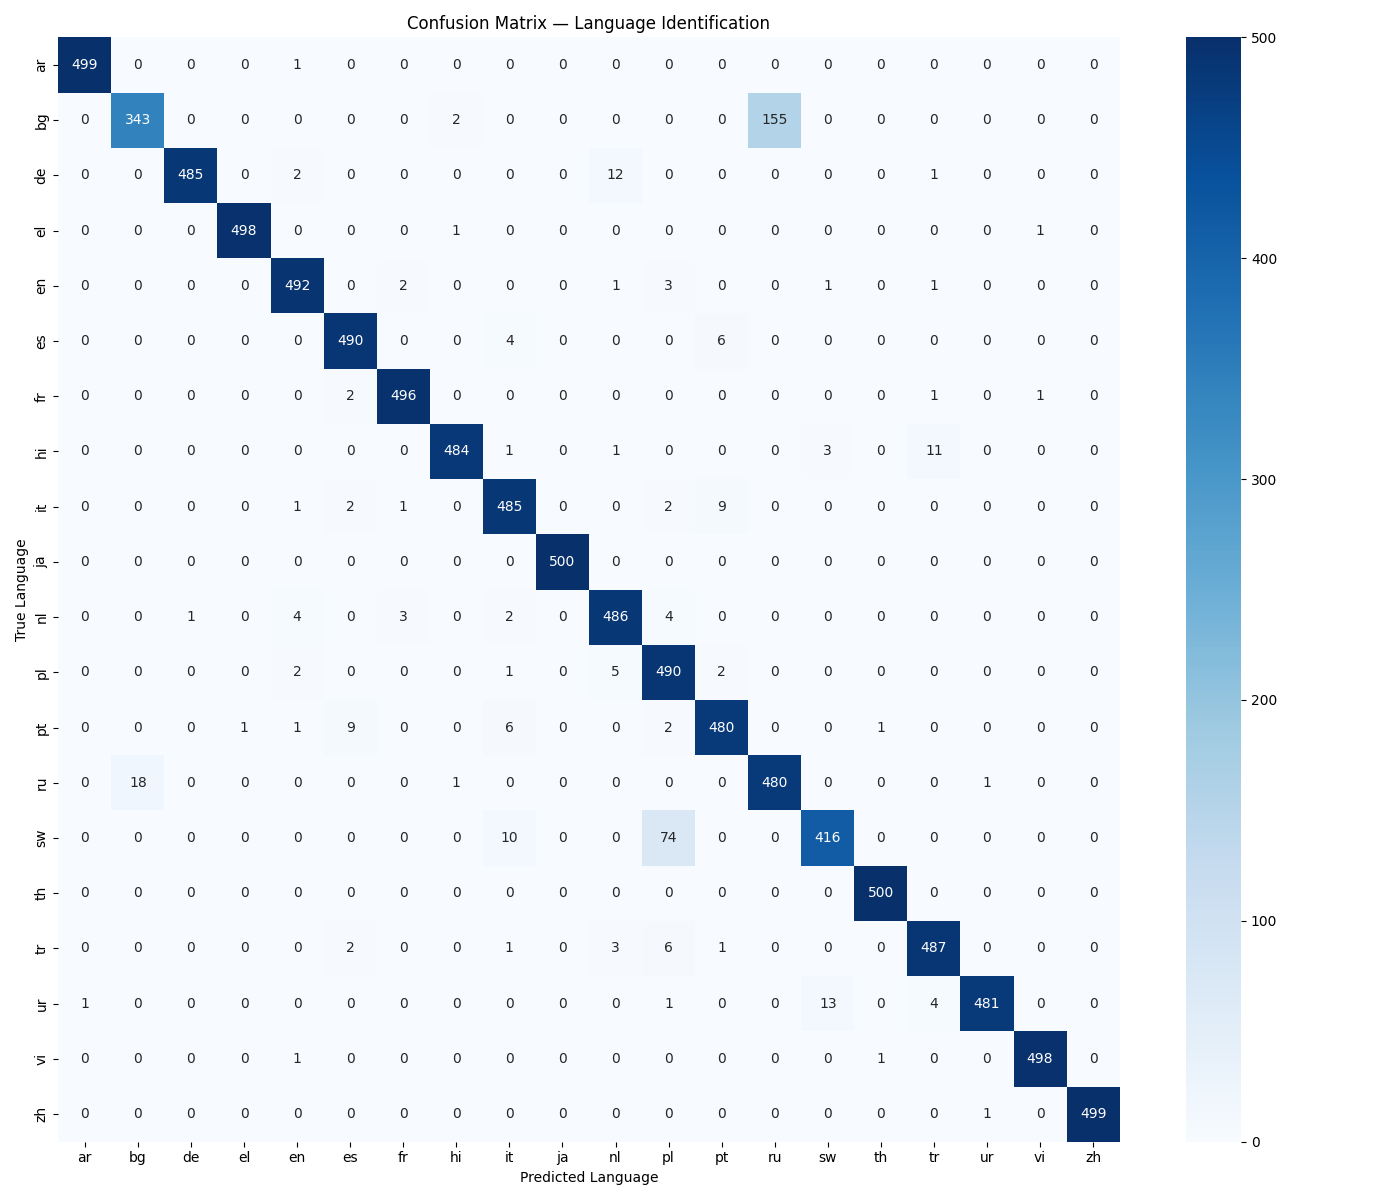
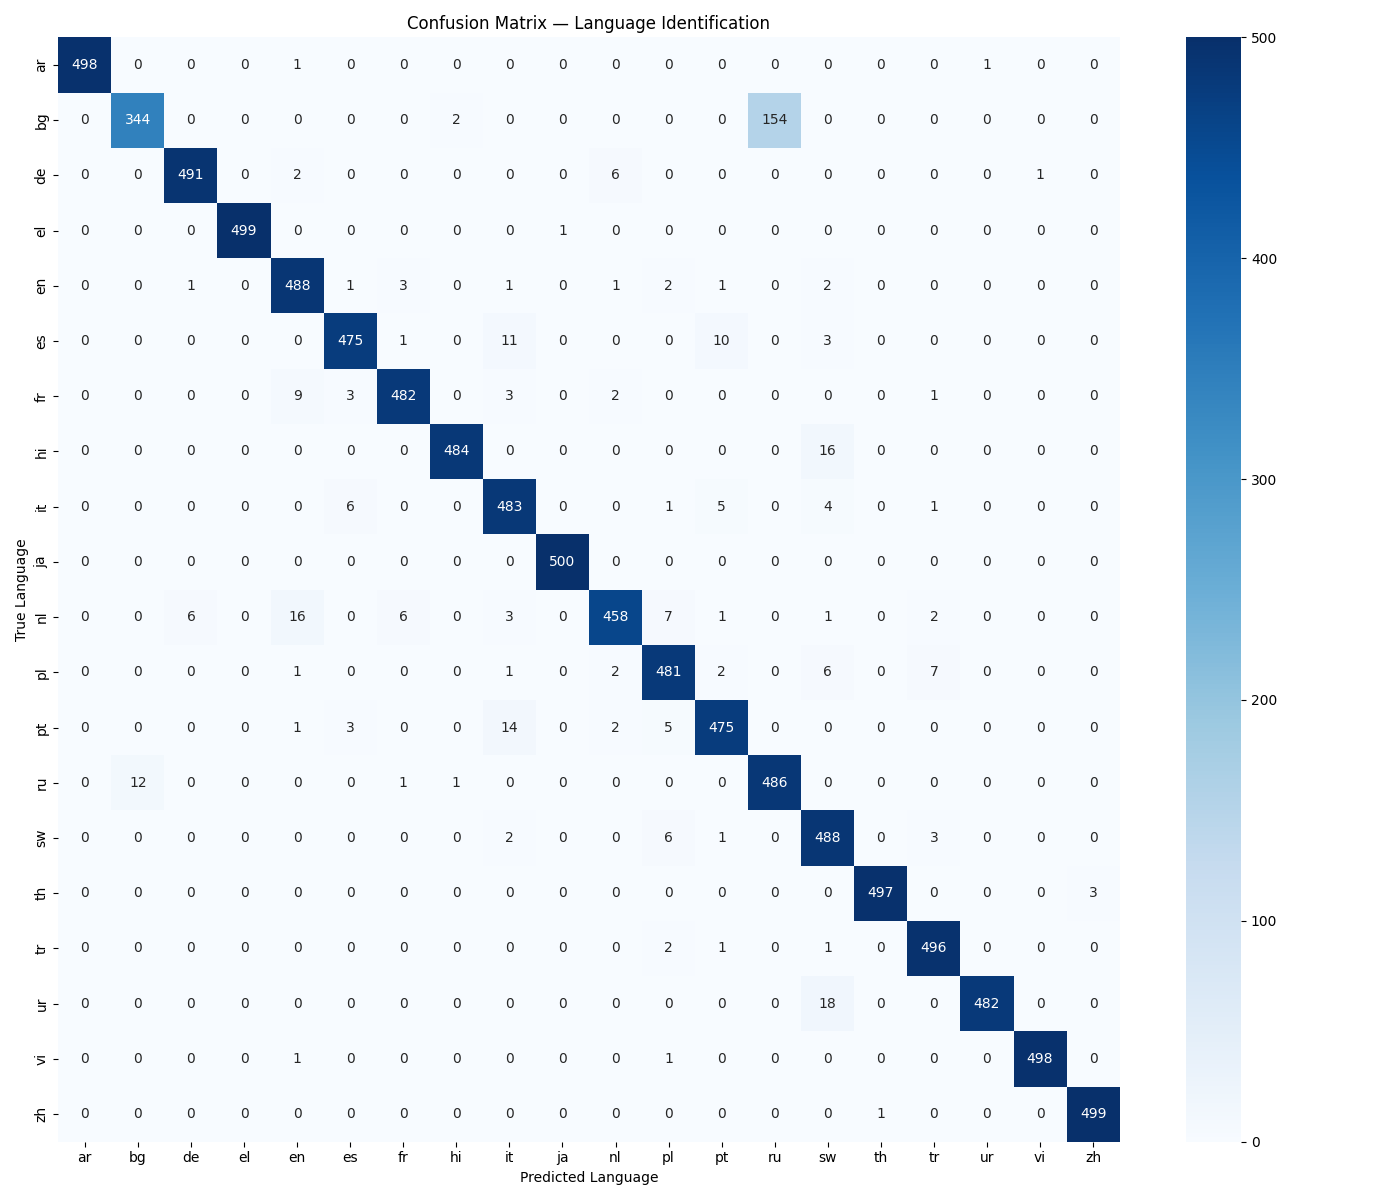
Final model trained , acc of 96%

Changed region(s): [[0.5529, 0.6783, 0.6143, 0.74], [0.4607, 0.6475, 0.5221, 0.74]]

diff --git a/src/predict.py b/src/predict.py
@@ -1,0 +1,75 @@
+import torch
+import torch.nn.functional as F
+from src.data_loader import load_config
+from src.preprocess import encode_text, load_vocab
+from src.model import LangIDModel
+
+def load_model(cfg, device):
+    # load saved vocab
+    char2idx, lang2idx, idx2lang = load_vocab(cfg['paths']['vocab_save'])
+    
+    # rebuild model architecture
+    model = LangIDModel(
+        vocab_size    = len(char2idx),
+        embedding_dim = cfg['model']['embedding_dim'],
+        gru_units     = cfg['model']['gru_units'],
+        num_classes   = cfg['model']['num_classes'],
+        dropout       = cfg['model']['dropout'],
+        num_layers    = cfg['model']['num_layers']
+    ).to(device)
+    
+    # load saved weights
+    model.load_state_dict(torch.load(cfg['paths']['model_save'], 
+                                     map_location=device))
+    model.eval()  # disable dropout for inference
+    
+    return model, char2idx, idx2lang
+
+def predict(text, model, char2idx, idx2lang, cfg, device):
+    # encode raw text exactly like training time
+    max_len = cfg['data']['max_len']
+    encoded = encode_text(text, char2idx, max_len)
+    
+    # convert to tensor and add batch dimension
+    # model expects shape (batch_size, max_len)
+    # unsqueeze(0) adds batch dimension → (1, max_len)
+    x = torch.LongTensor(encoded).unsqueeze(0).to(device)
+    
+    with torch.no_grad():
+        output = model(x)                         # raw scores for 20 languages
+        probs  = F.softmax(output, dim=1)         # convert to probabilities (sum to 1)
+        confidence, pred_idx = probs.max(dim=1)   # get highest probability
+    
+    language   = idx2lang[str(pred_idx.item())]
+    confidence = confidence.item() * 100
+    
+    # top 3 predictions with confidence
+    top3_probs, top3_idxs = probs.topk(3, dim=1)
+    top3 = [(idx2lang[str(i.item())], round(p.item()*100, 2)) 
+            for i, p in zip(top3_idxs[0], top3_probs[0])]
+    
+    return language, confidence, top3
+
+if __name__ == "__main__":
+    cfg    = load_config()
+    device = torch.device('cuda' if torch.cuda.is_available() else 'cpu')
+    model, char2idx, idx2lang = load_model(cfg, device)
+    
+    # test sentences in different languages
+    test_inputs = [
+        "Hello, how are you doing today?",
+        "Bonjour, comment allez-vous?",
+        "यह एक हिंदी वाक्य है",
+        "これは日本語のテキストです",
+        "Hola, ¿cómo estás?",
+        "Yaar tu kya kar raha hai",       # Hinglish edge case
+        "😂😭🔥",                          # emoji edge case
+    ]
+    
+    print(f"\n{'Input':<40} {'Predicted':>10} {'Confidence':>12}")
+    print("-" * 65)
+    for text in test_inputs:
+        lang, conf, top3 = predict(text, model, char2idx, idx2lang, cfg, device)
+        print(f"{text:<40} {lang:>10} {conf:>10.2f}%")
+        print(f"  Top 3: {top3}")
+        print()
